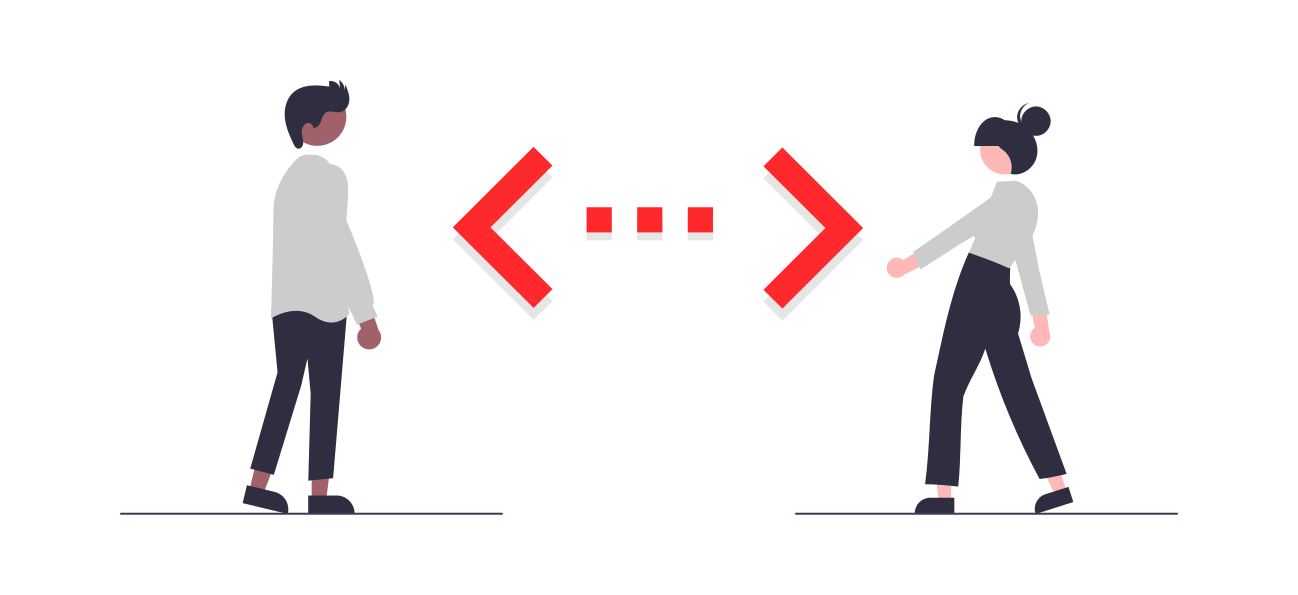
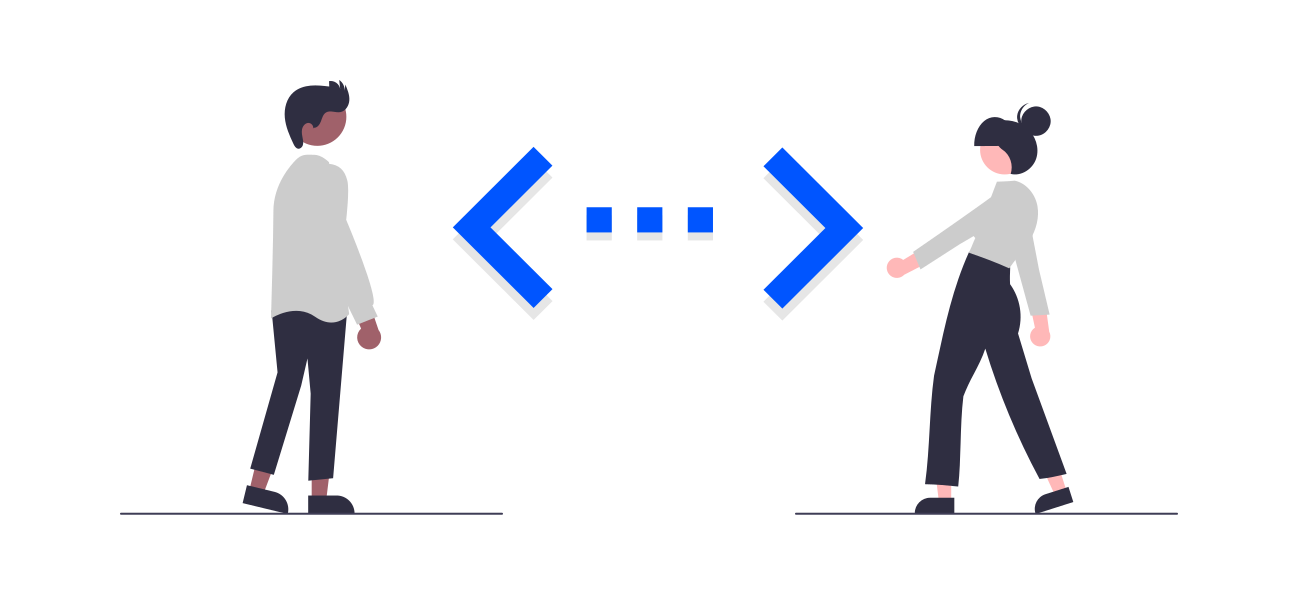
init intro page setup

Changed region(s): [[0.339, 0.242, 0.4314, 0.5143], [0.5855, 0.242, 0.678, 0.5143], [0.4314, 0.3328, 0.5547, 0.3933]]

diff --git a/frontend/src/pages/landingPageComponents/Footer.tsx b/frontend/src/pages/landingPageComponents/Footer.tsx
@@ -93,12 +93,12 @@ const Footer = () => {
             </Grid>
             <Grid item xs={12} md={6} className={classes.textWrapper}>
               <div className={classes.heading}>Developers</div>
-              <div className={classes.subHeading}>Full Name</div>
-              <div className={classes.subHeading}>Full Name</div>
-              <div className={classes.subHeading}>Full Name</div>
-              <div className={classes.subHeading}>Full Name</div>
-              <div className={classes.subHeading}>Full Name</div>
-              <div className={classes.subHeading}>Full Name</div>
+              <div className={classes.subHeading}>Joel Gritter</div>
+              <div className={classes.subHeading}>Kindeep Singh Kargil</div>
+              <div className={classes.subHeading}>Tennyson Demchuk</div>
+              <div className={classes.subHeading}>Aditya Rajyaguru</div>
+              <div className={classes.subHeading}>Daniel Sokic</div>
+              <div className={classes.subHeading}>Mutaz Fattal</div>
             </Grid>
           </Grid>
         </div>

diff --git a/frontend/src/pages/landingPageComponents/LandingSection.tsx b/frontend/src/pages/landingPageComponents/LandingSection.tsx
@@ -6,7 +6,6 @@ import KeyboardArrowDownIcon from '@material-ui/icons/KeyboardArrowDown';
 
 const useStyles = makeStyles((theme: Theme) => ({
   container: {
-    // background: 'linear-gradient(180deg, #fcc 30%, #fff )',
     display: 'flex',
     justifyContent: 'center',
     alignItems: 'center',
@@ -53,13 +52,13 @@ const useStyles = makeStyles((theme: Theme) => ({
     borderRadius: 50,
     padding: '8px 20px',
     '&:hover': {
-      backgroundColor: '#fcc',
+      backgroundColor: '#6699ff',
       transition: '0.5s',
     },
   },
   arrowDown: {
     position: 'absolute',
-    bottom: 80,
+    bottom: 40,
   },
   icon: { width: 80, height: 80, color: theme.palette.primary.main },
 }));

diff --git a/frontend/src/pages/landingPageComponents/InfoSection.tsx b/frontend/src/pages/landingPageComponents/InfoSection.tsx
@@ -8,7 +8,7 @@ import testImage from './pageAssets/undraw_split_testing_l1uw.png';
 const useStyles = makeStyles((theme: Theme) => ({
   infoContainer: {
     color: '#000',
-    backgroundColor: '#fdd',
+    backgroundColor: '#ccddff',
   },
   infoWrapper: {
     display: 'grid',
@@ -67,7 +67,7 @@ const useStyles = makeStyles((theme: Theme) => ({
     borderRadius: 50,
     padding: '8px 20px',
     '&:hover': {
-      backgroundColor: '#fcc',
+      backgroundColor: '#6699ff',
       transition: '0.5s',
     },
   },

diff --git a/frontend/src/pages/landingPageComponents/Navbar.tsx b/frontend/src/pages/landingPageComponents/Navbar.tsx
@@ -43,13 +43,12 @@ const useStyles = makeStyles((theme: Theme) => ({
     color: theme.palette.primary.main,
     backgroundColor: '#fff',
     height: '50%',
-    // width: 100,
     paddingRight: theme.spacing(3),
     paddingLeft: theme.spacing(3),
     borderRadius: 50,
     margin: 'auto 0',
     '&:hover': {
-      backgroundColor: '#fcc',
+      backgroundColor: '#99bbff',
       transition: '0.5s',
     },
   },

diff --git a/frontend/src/pages/landingPageComponents/InfoSection2.tsx b/frontend/src/pages/landingPageComponents/InfoSection2.tsx
@@ -6,7 +6,7 @@ import testImage from './pageAssets/undraw_Code_typing_re_p8b9.png';
 const useStyles = makeStyles((theme: Theme) => ({
   infoContainer: {
     color: '#000',
-    backgroundColor: '#fdd',
+    backgroundColor: '#ccddff',
   },
   infoWrapper: {
     display: 'grid',

diff --git a/frontend/src/pages/landingPageComponents/CallToAction.tsx b/frontend/src/pages/landingPageComponents/CallToAction.tsx
@@ -52,7 +52,7 @@ const useStyles = makeStyles((theme: Theme) => ({
     borderRadius: 50,
     padding: '8px 30px',
     '&:hover': {
-      backgroundColor: '#fcc',
+      backgroundColor: '#6699ff',
       transition: '0.5s',
     },
   },
